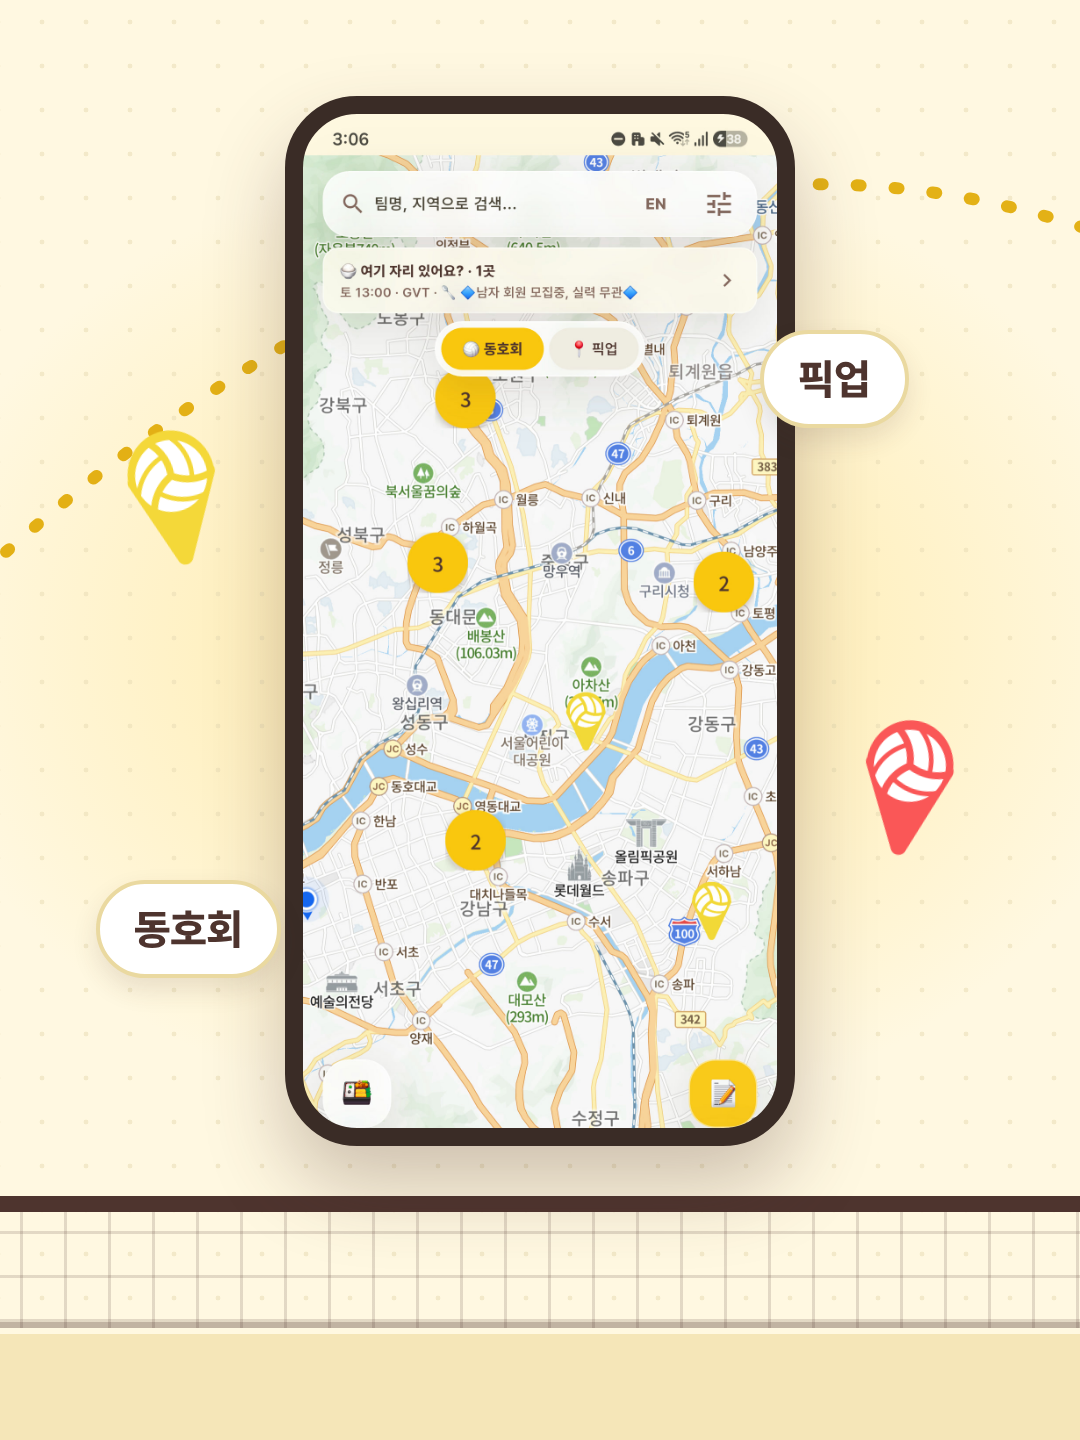
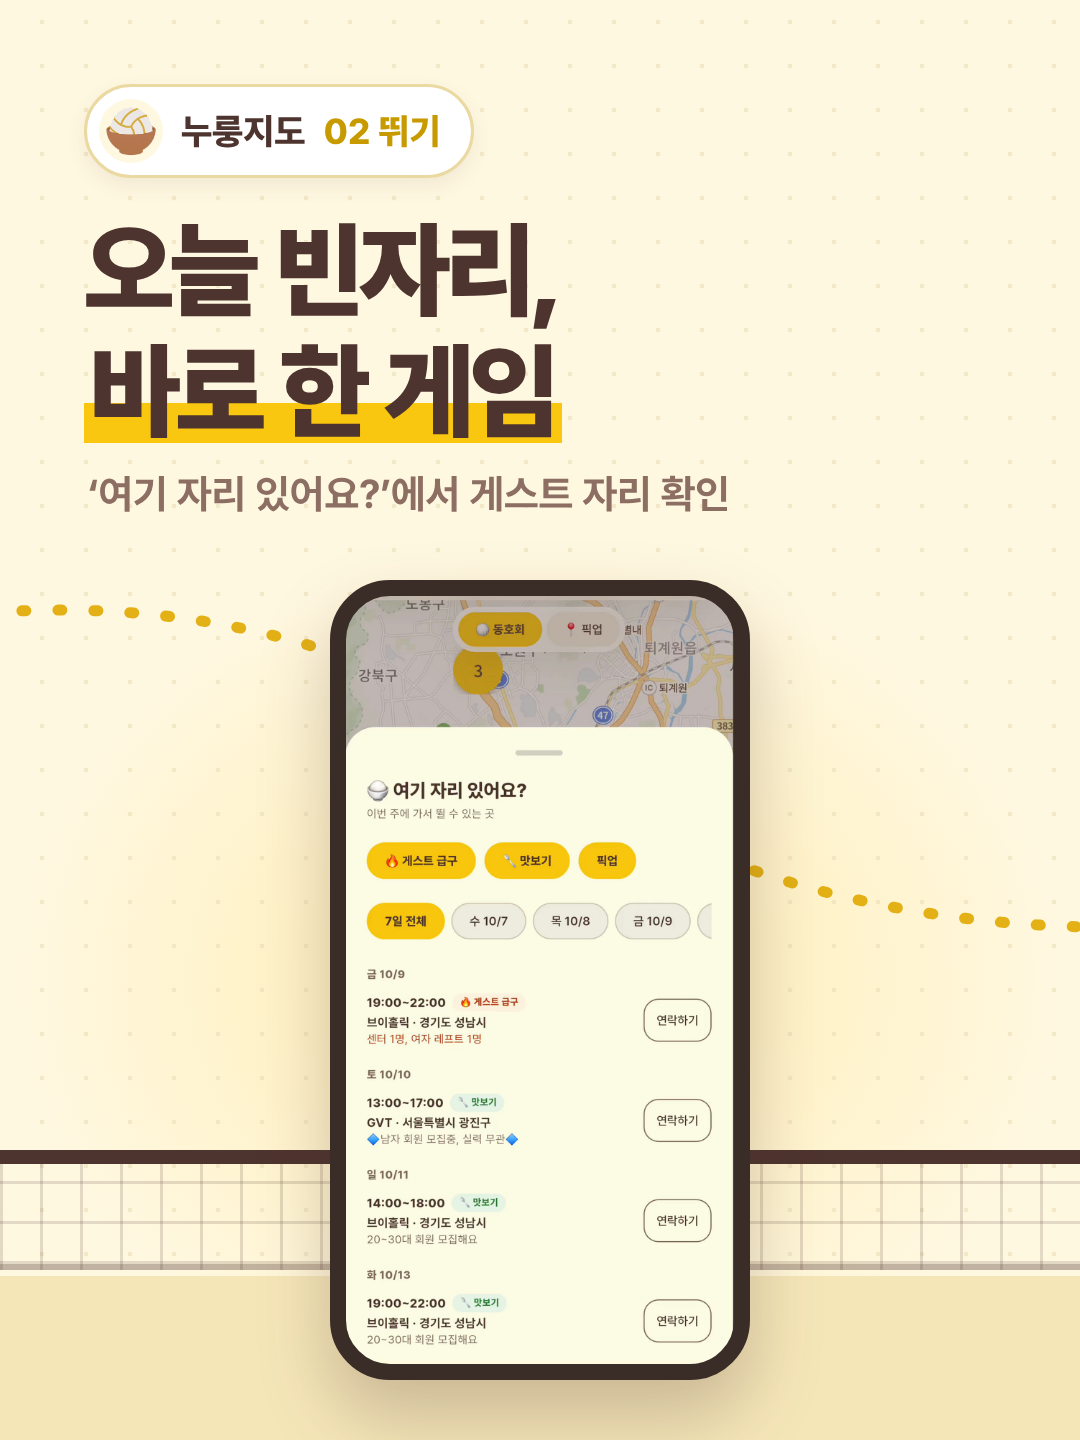
feat(marketing): 3분할 조각을 낱장 카드로 — 찾기·뛰기·올리기
조각마다 브랜드 칩·제목·설명·앱 화면을 갖춘 완결된 표지로 바꾸고,
이음매를 넘는 건 배경(점 무늬·네트·공 궤적)만 남겼다.
홈 피드에서 한 장씩 뜬 모습을 보는 feed.png 미리보기를 추가했다.

Claude-Session: https://claude.ai/code/session_01Dg9gZLnpx5DLHg51oPstUC

diff --git a/scripts/capture/make_grid.py b/scripts/capture/make_grid.py
@@ -10,12 +10,14 @@
   2_upload_second_M.png 가운데 조각
   3_upload_last_L.png   왼쪽 조각 — 마지막에 올리고, 마지막에 고정
   preview.png           프로필 화면 미리보기(칸 사이 틈 · 고정 핀 표시)
+  feed.png              홈 피드에 한 장씩 뜬 모습(올린 순서대로) — 조각마다 혼자서도 표지가 되는지 확인
 그리고 marketing-assets/grid/guide.png — 직접 디자인할 때 깔고 쓰는 안전 영역 가이드.
 
 안전 영역 (각 조각 기준):
   - 오른쪽 위 170x170 비우기: 고정 게시물엔 핀 아이콘이 여기 뜬다.
   - 이음매 좌우 40px 안에는 글자를 두지 않기: 프로필 칸 사이 흰 틈에 글자가 끊긴다.
-  - 홈 피드에선 조각이 한 장씩 따로 보인다 → 조각마다 혼자서도 말이 되게.
+  - 홈 피드에선 조각이 한 장씩 따로 보인다 → 조각마다 완결된 카드로(제목·설명·화면).
+    이음매를 넘는 건 배경(무늬·네트·궤적)만. 글자·물건이 반으로 잘리면 낱장이 망가진다.
 
 사용법:
   python scripts/capture/make_grid.py                  # 누룽지도 기본 시안(pinned) + guide
@@ -87,101 +89,75 @@ def split(pano, out):
 
 
 # ── 누룽지도 기본 시안 ───────────────────────────────────────
+# 조각 = 완결된 카드 한 장. 세 장이 같은 뼈대(브랜드 칩 · 제목 · 설명 · 폰 화면)를 쓰고,
+# 이어 보이게 하는 건 배경(점 무늬 · 네트 · 공 궤적)뿐이다 — 글자나 물건은 이음매를 넘지 않는다.
+# 그래서 홈 피드에 한 장씩 떠도 각자 표지로 읽히고, 프로필에선 한 장면으로 이어진다.
+CARDS = (  # (번호, 동사, 제목 두 줄, 설명, 화면, 화면 세로 위치)
+    ("01", "찾기", "배구할 팀,<br><span class=hl>지도 한 눈에</span>",
+     "지역·요일·대상으로 우리 동네 동호회", "01_map.jpg", "top"),
+    ("02", "뛰기", "오늘 빈자리,<br><span class=hl>바로 한 게임</span>",
+     "‘여기 자리 있어요?’에서 게스트 자리 확인", "room@13.jpg", "bottom"),
+    ("03", "올리기", "우리 팀도<br><span class=hl>지도에 올려요</span>",
+     "운영진이라면 1분이면 팀 등록 끝", "register@30.jpg", "18%"),
+)
+
 PINNED_CSS = """
 .pano{position:relative;width:3240px;height:1440px;overflow:hidden;
-  background:radial-gradient(900px 700px at 1620px 640px,#FFE9A3 0%,rgba(255,233,163,0) 70%),#FFF8E1}
+  background:radial-gradient(760px 620px at 540px 980px,#FFEDB0 0%,rgba(255,237,176,0) 70%),
+             radial-gradient(760px 620px at 1620px 980px,#FFEDB0 0%,rgba(255,237,176,0) 70%),
+             radial-gradient(760px 620px at 2700px 980px,#FFEDB0 0%,rgba(255,237,176,0) 70%),#FFF8E1}
 .dots{position:absolute;inset:0;background-image:radial-gradient(#E9DDB6 2.4px,transparent 2.6px);
   background-size:44px 44px;opacity:.55}
 .arc{position:absolute;inset:0}
-.net{position:absolute;left:0;right:0;top:1196px;height:132px;
+.net{position:absolute;left:0;right:0;top:1150px;height:120px;
   background:
-   repeating-linear-gradient(90deg,rgba(78,52,46,.16) 0 3px,transparent 3px 44px),
-   repeating-linear-gradient(0deg,rgba(78,52,46,.16) 0 3px,transparent 3px 44px);
-  border-top:16px solid #4E342E;border-bottom:6px solid rgba(78,52,46,.35)}
-.floor{position:absolute;left:0;right:0;top:1334px;bottom:0;background:#F5E6B8}
+   repeating-linear-gradient(90deg,rgba(78,52,46,.16) 0 3px,transparent 3px 40px),
+   repeating-linear-gradient(0deg,rgba(78,52,46,.16) 0 3px,transparent 3px 40px);
+  border-top:14px solid #4E342E;border-bottom:6px solid rgba(78,52,46,.35)}
+.floor{position:absolute;left:0;right:0;top:1276px;bottom:0;background:#F5E6B8}
 .tile{position:absolute;top:0;width:1080px;height:1440px}
-.t0{left:0}.t1{left:1080px}.t2{left:2160px}
-
-/* 왼쪽 — 브랜드 */
-.logo{position:absolute;left:96px;top:120px;width:150px;height:150px;border-radius:40px;
-  background:#fff url(logo.png) center/118% no-repeat;box-shadow:0 14px 34px rgba(78,52,46,.16)}
-.kick{position:absolute;left:100px;top:330px;font-size:44px;font-weight:800;color:#8D6E63;letter-spacing:.04em}
-.name{position:absolute;left:88px;top:392px;font-size:236px;font-weight:900;line-height:.98;letter-spacing:-.045em}
-.name .y{color:#FAC710}
-.tag{position:absolute;left:100px;top:880px;font-size:64px;font-weight:800;line-height:1.36;letter-spacing:-.02em}
-.hl{background:linear-gradient(transparent 58%,#FAC710 58%,#FAC710 92%,transparent 92%);padding:0 6px}
-
-/* 가운데 — 앱 화면 */
-.phone{position:absolute;left:285px;top:96px;width:510px;height:1050px;border-radius:72px;
-  border:18px solid #3A2C26;background:#3A2C26 url(map.jpg) center top/100% auto no-repeat;
-  box-shadow:0 40px 80px rgba(78,52,46,.28)}
-.mk{position:absolute;width:112px}
-.badge{position:absolute;padding:20px 34px;border-radius:999px;background:#fff;
-  border:4px solid #EAD9A0;font-size:42px;font-weight:800;box-shadow:0 12px 26px rgba(78,52,46,.12)}
-
-/* 오른쪽 — 행동 유도 */
-.cta-k{position:absolute;left:110px;top:440px;font-size:44px;font-weight:800;color:#8D6E63;letter-spacing:.04em}
-.cta{position:absolute;left:104px;top:500px;font-size:104px;font-weight:900;line-height:1.14;letter-spacing:-.04em}
-.steps{position:absolute;left:110px;top:780px;display:flex;flex-direction:column;gap:22px}
-.step{display:flex;align-items:center;gap:28px;font-size:48px;font-weight:800}
-.step b{display:grid;place-items:center;width:76px;height:76px;border-radius:50%;
-  background:#4E342E;color:#FAC710;font-size:42px;font-weight:900}
-.link{position:absolute;left:110px;top:1068px;padding:22px 40px;border-radius:999px;background:#FAC710;
-  font-size:46px;font-weight:900;box-shadow:0 10px 0 #E0A800}
-.ball{position:absolute;left:95px;top:225px;width:150px;height:150px;border-radius:50%;
-  background:radial-gradient(circle at 34% 28%,#fff,#FAC710 70%,#F0B800);
-  box-shadow:0 18px 30px rgba(216,67,21,.25)}
+.chip{position:absolute;left:84px;top:84px;display:flex;align-items:center;gap:18px;
+  padding:12px 30px 12px 12px;border-radius:999px;background:#fff;border:3px solid #EAD9A0;
+  font-size:36px;font-weight:800;box-shadow:0 8px 20px rgba(78,52,46,.08)}
+.chip i{width:64px;height:64px;border-radius:50%;background:#FFF8E1 url(logo.png) center/125% no-repeat}
+.chip em{font-style:normal;color:#C79A00}
+.title{position:absolute;left:84px;top:210px;font-size:104px;font-weight:900;line-height:1.16;letter-spacing:-.04em}
+.hl{background:linear-gradient(transparent 60%,#FAC710 60%,#FAC710 92%,transparent 92%);padding:0 6px}
+.sub{position:absolute;left:88px;top:470px;font-size:40px;font-weight:700;color:#8D6E63}
+.phone{position:absolute;left:330px;top:580px;width:420px;height:800px;border-radius:60px;
+  border:16px solid #3A2C26;background:#3A2C26 no-repeat;background-size:100% auto;
+  box-shadow:0 36px 70px rgba(78,52,46,.26)}
+.ball{position:absolute;width:120px;height:120px;border-radius:50%;
+  background:radial-gradient(circle at 34% 28%,#fff,#FAC710 70%,#F0B800);box-shadow:0 16px 26px rgba(216,67,21,.22)}
 .ball::before,.ball::after{content:"";position:absolute;inset:0;border-radius:50%;border:4px solid #E0A800;opacity:.55}
 .ball::before{transform:scaleX(.4)}.ball::after{transform:scaleY(.4)}
 """
 
-PINNED_BODY = """
-<div class=pano>
-  <div class=dots></div>
-  <div class=floor></div>
-  <div class=net></div>
-  <!-- 세 조각을 가로지르는 공 궤적: 이음매를 넘는 요소가 있어야 한 장으로 읽힌다 -->
-  <svg class=arc width=3240 height=1440 viewBox="0 0 3240 1440">
-    <path d="M 560 1150 Q 1500 -150, 2330 300" fill=none stroke="#E0A800"
-          stroke-width=12 stroke-linecap=round stroke-dasharray="4 34" opacity=.9 />
-  </svg>
 
-  <div class="tile t0">
-    <div class=logo></div>
-    <div class=kick>전국 배구 동호회 지도</div>
-    <div class=name>누룽<br><span class=y>지도</span></div>
-    <div class=tag>배구할 팀,<br><span class=hl>지도 한 눈에</span></div>
-  </div>
-
-  <div class="tile t1">
-    <div class=phone></div>
-    <img class=mk src=marker_yellow.png style="left:120px;top:430px;transform:rotate(-10deg)">
-    <img class=mk src=marker_red.png style="left:850px;top:720px;transform:rotate(8deg)">
-    <div class=badge style="left:96px;top:880px">동호회</div>
-    <div class=badge style="left:760px;top:330px">픽업</div>
-  </div>
-
-  <div class="tile t2">
-    <div class=cta-k>지금 시작하기</div>
-    <div class=cta>우리 팀도<br>지도에 올려요</div>
-    <div class=steps>
-      <div class=step><b>1</b>앱 받기</div>
-      <div class=step><b>2</b>팀 등록</div>
-      <div class=step><b>3</b>모집 글 올리기</div>
-    </div>
-    <div class=link>프로필 링크에서 다운로드</div>
-    <div class=ball></div>
-  </div>
-</div>
-"""
+def pinned_body():
+    tiles = []
+    for i, (no, verb, title, sub, shot, pos) in enumerate(CARDS):
+        tiles.append(
+            f"<div class=tile style='left:{i * TW}px'>"
+            f"<div class=chip><i></i>누룽지도 <em>{no} {verb}</em></div>"
+            f"<div class=title>{title}</div><div class=sub>{sub}</div>"
+            f"<div class=phone style=\"background-image:url('{shot}');background-position:center {pos}\"></div>"
+            "</div>")
+    # 공 궤적은 폰 사이 빈 곳(이음매 근처)에서만 보이고, 폰 뒤로 지나간다
+    return (
+        "<div class=pano><div class=dots></div><div class=floor></div><div class=net></div>"
+        "<svg class=arc width=3240 height=1440 viewBox='0 0 3240 1440'>"
+        "<path d='M 140 1120 C 700 520, 1300 520, 1620 760 S 2560 1000, 3050 640' fill=none stroke='#E0A800' "
+        "stroke-width=11 stroke-linecap=round stroke-dasharray='4 32' opacity=.9 /></svg>"
+        + "".join(tiles)
+        + "<div class=ball style='left:2990px;top:560px'></div></div>")
 
 
 def stage_assets(work):
     shutil.copyfile(FONTS / "PretendardVariable.ttf", work / "PretendardVariable.ttf")
     shutil.copyfile(ROOT / "assets" / "nulloongzido logo_without bg.png", work / "logo.png")
-    for c in ("yellow", "red"):
-        shutil.copyfile(ROOT / "assets" / "markers" / f"marker_{c}.png", work / f"marker_{c}.png")
-    shutil.copyfile(SHOTS / "01_map.jpg", work / "map.jpg")
+    for c in CARDS:
+        shutil.copyfile(SHOTS / c[4], work / c[4])
 
 
 # ── 가이드 · 미리보기 ────────────────────────────────────────
@@ -239,6 +215,21 @@ def preview_body(tiles):
         ".e{background:repeating-linear-gradient(45deg,#f2f2f2 0 20px,#e9e9e9 20px 40px)}"
 
 
+def feed_body(tiles):
+    # 홈 피드에선 조각이 각자 한 게시물로 뜬다 — 혼자서도 표지 노릇을 하는지 보는 용도
+    posts = []
+    for name in ("1_upload_first_R", "2_upload_second_M", "3_upload_last_L"):
+        posts.append("<div class=p><div class=h><i></i><b>nulloongzido</b><span>···</span></div>"
+                     f"<img src={tiles[name]}><div class=a>♡ &nbsp;💬 &nbsp;➤<span>🔖</span></div></div>")
+    css = (".w{display:flex;gap:48px;padding:48px;background:#e9e9e9}"
+           ".p{width:720px;background:#fff;border-radius:18px;overflow:hidden}"
+           ".h{display:flex;align-items:center;gap:16px;padding:20px 22px;font-size:28px}"
+           ".h i{width:56px;height:56px;border-radius:50%;border:2px solid #ddd;background:#fff url(logo.png) center/125%}"
+           ".h span,.a span{margin-left:auto}.p img{display:block;width:720px;height:960px}"
+           ".a{display:flex;padding:20px 24px 28px;font-size:36px}")
+    return f"<div class=w>{''.join(posts)}</div>", css
+
+
 def finish(chrome, work, pano, out):
     split(pano, out)
     tiles = {}
@@ -247,6 +238,8 @@ def finish(chrome, work, pano, out):
         tiles[name] = f"{name}.png"
     body, css = preview_body(tiles)
     shutil.copyfile(page(work, "preview", css, body, 1170, 2300, chrome), out / "preview.png")
+    body, css = feed_body(tiles)
+    shutil.copyfile(page(work, "feed", css, body, 2400, 1200, chrome), out / "feed.png")
     log(f"→ {out}")
 
 
@@ -274,7 +267,7 @@ def main():
             out = OUT_ROOT / "pinned"
             out.mkdir(parents=True, exist_ok=True)
             pano = out / "panorama.png"
-            shutil.copyfile(page(work, "pano", PINNED_CSS, PINNED_BODY, PW, TH, chrome), pano)
+            shutil.copyfile(page(work, "pano", PINNED_CSS, pinned_body(), PW, TH, chrome), pano)
         finish(chrome, work, pano, out)
     finally:
         shutil.rmtree(work, ignore_errors=True)
